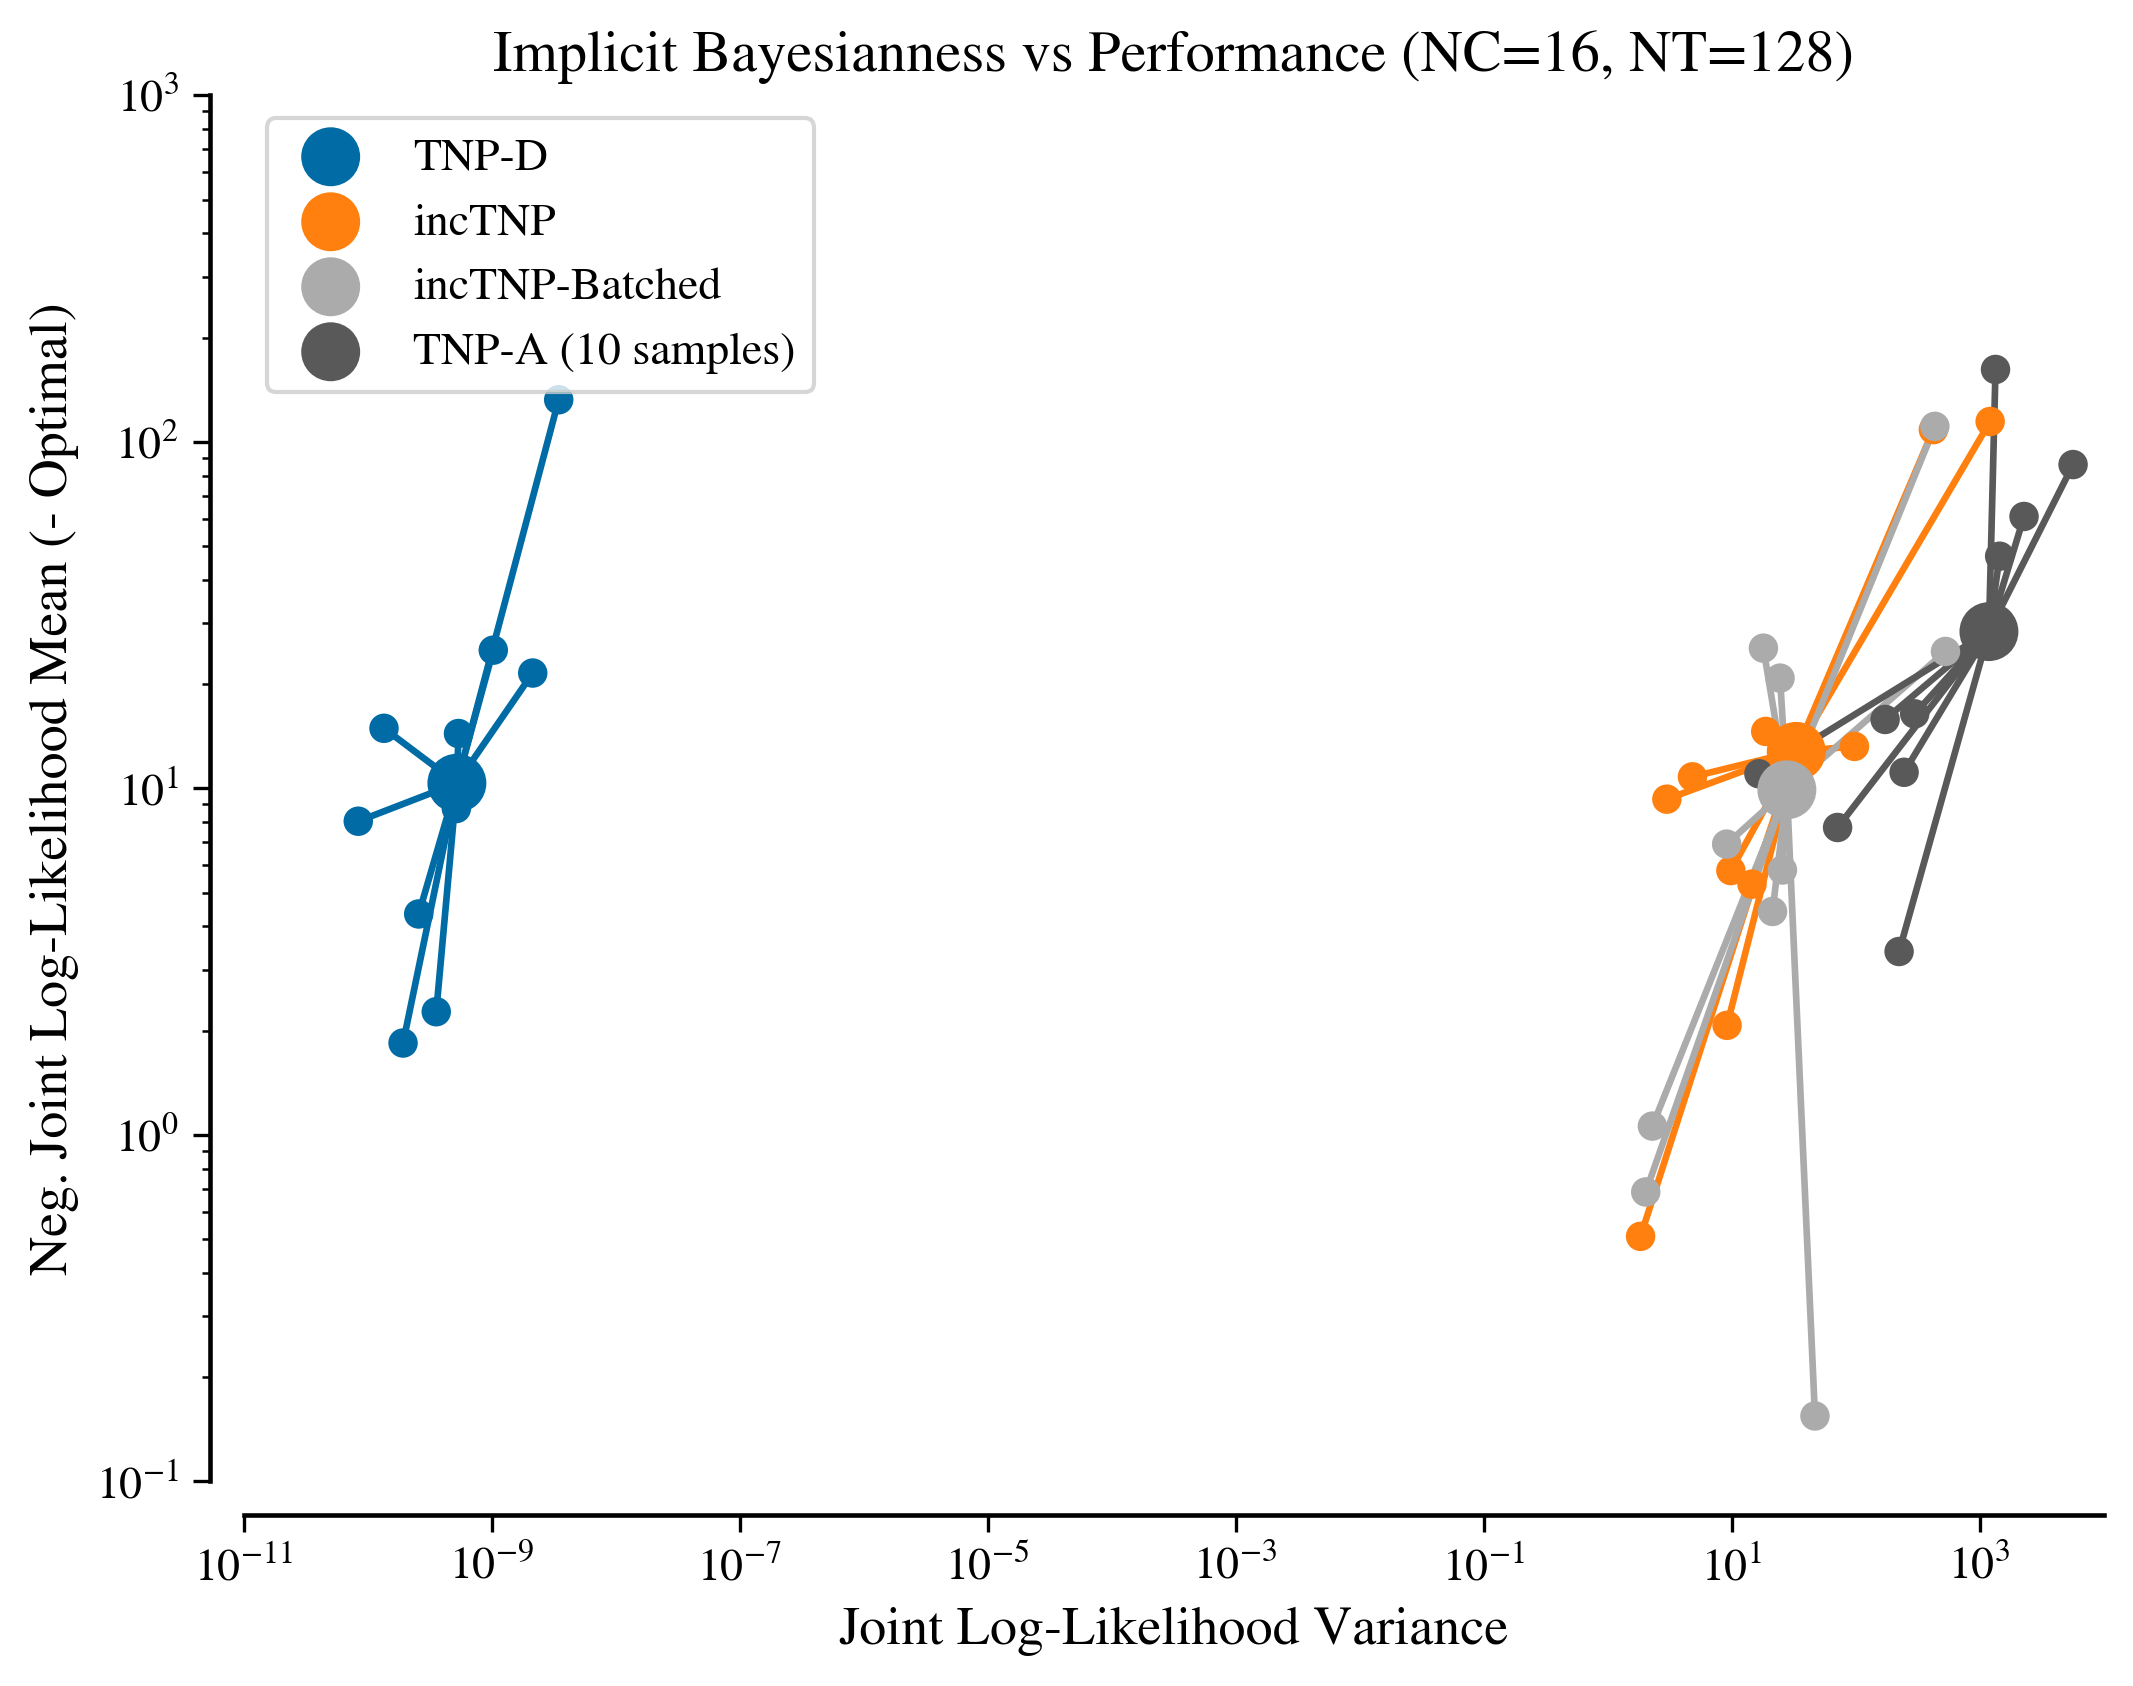
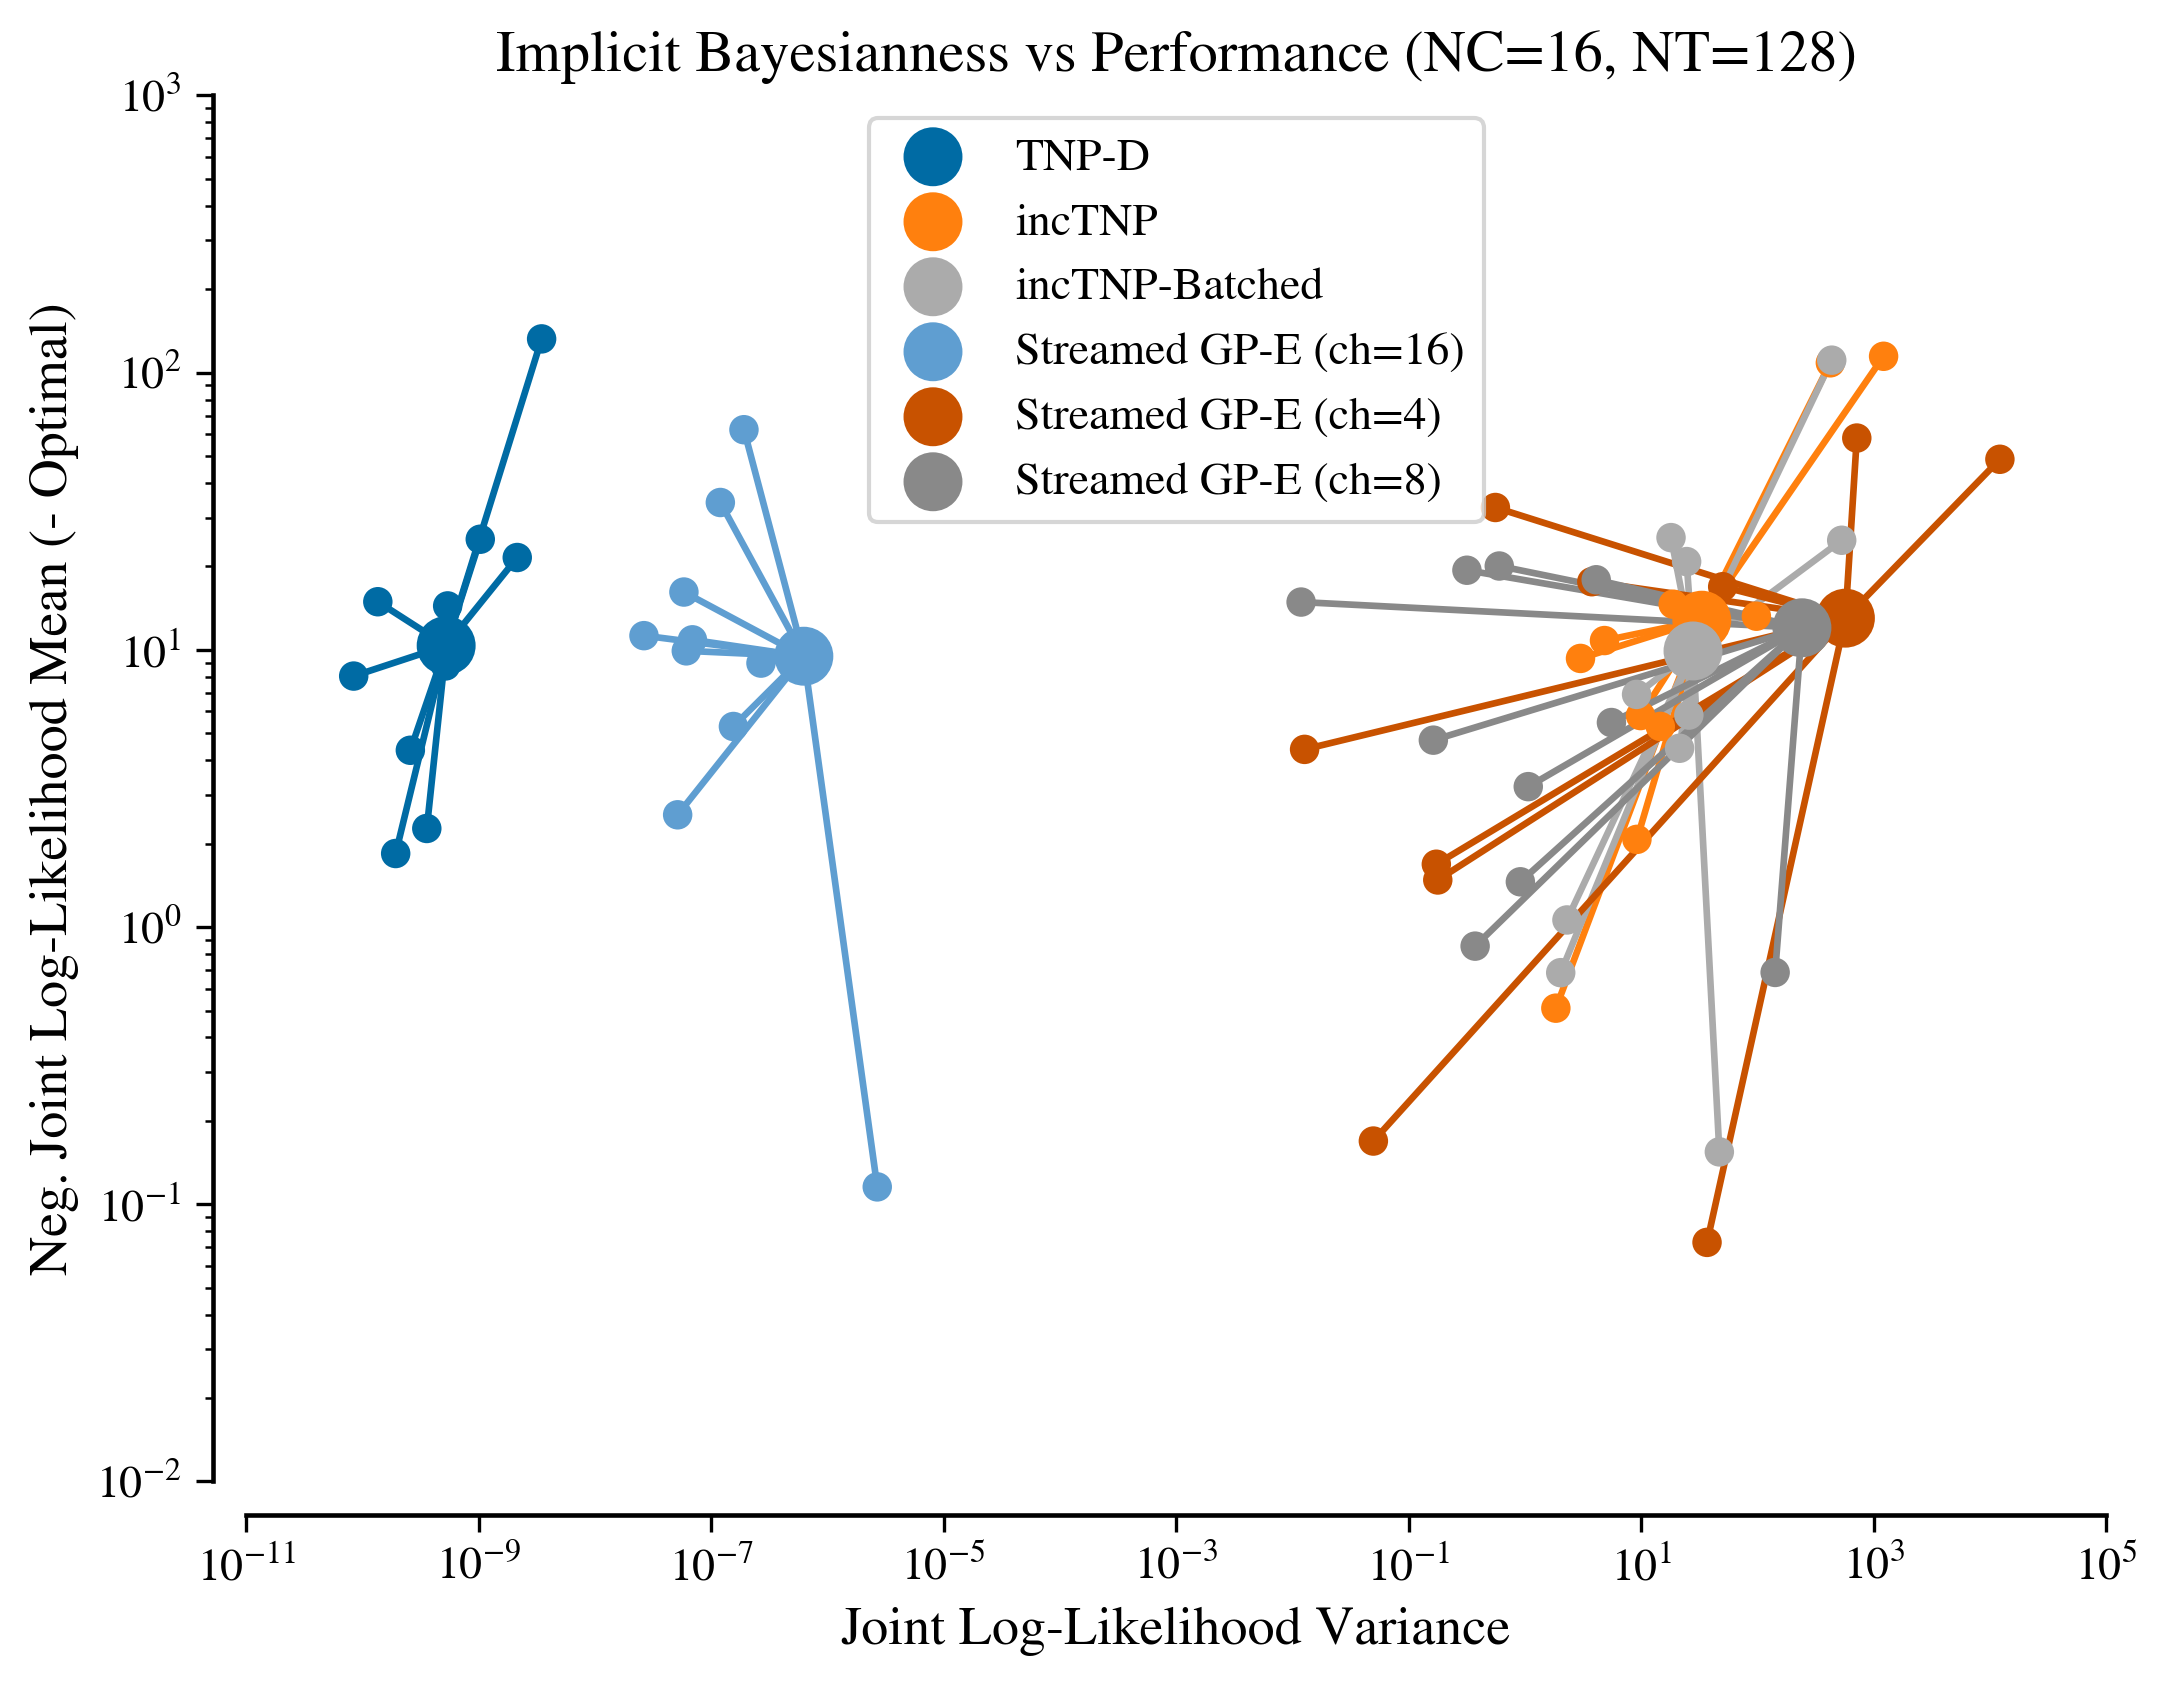
Plot

diff --git a/experiments/exchangeability.py b/experiments/exchangeability.py
@@ -439,7 +439,7 @@ def plot_from_folder(folder):
         # Extracts from the summary fixed format
         lines = model_summary_txt.split("\n")
         model_name = lines[1].split(": ")[1]
-        if model_name.startswith("Streamed GP"): continue
+        if model_name.startswith("Streamed GP-S") or model_name.startswith("TNP-A"): continue
         mean_m_var = float(lines[2].split(" ")[1])
         mean_m_nlls = float(lines[3].split(" ")[1])
         npz_file = lines[4].split(": ")[1]
